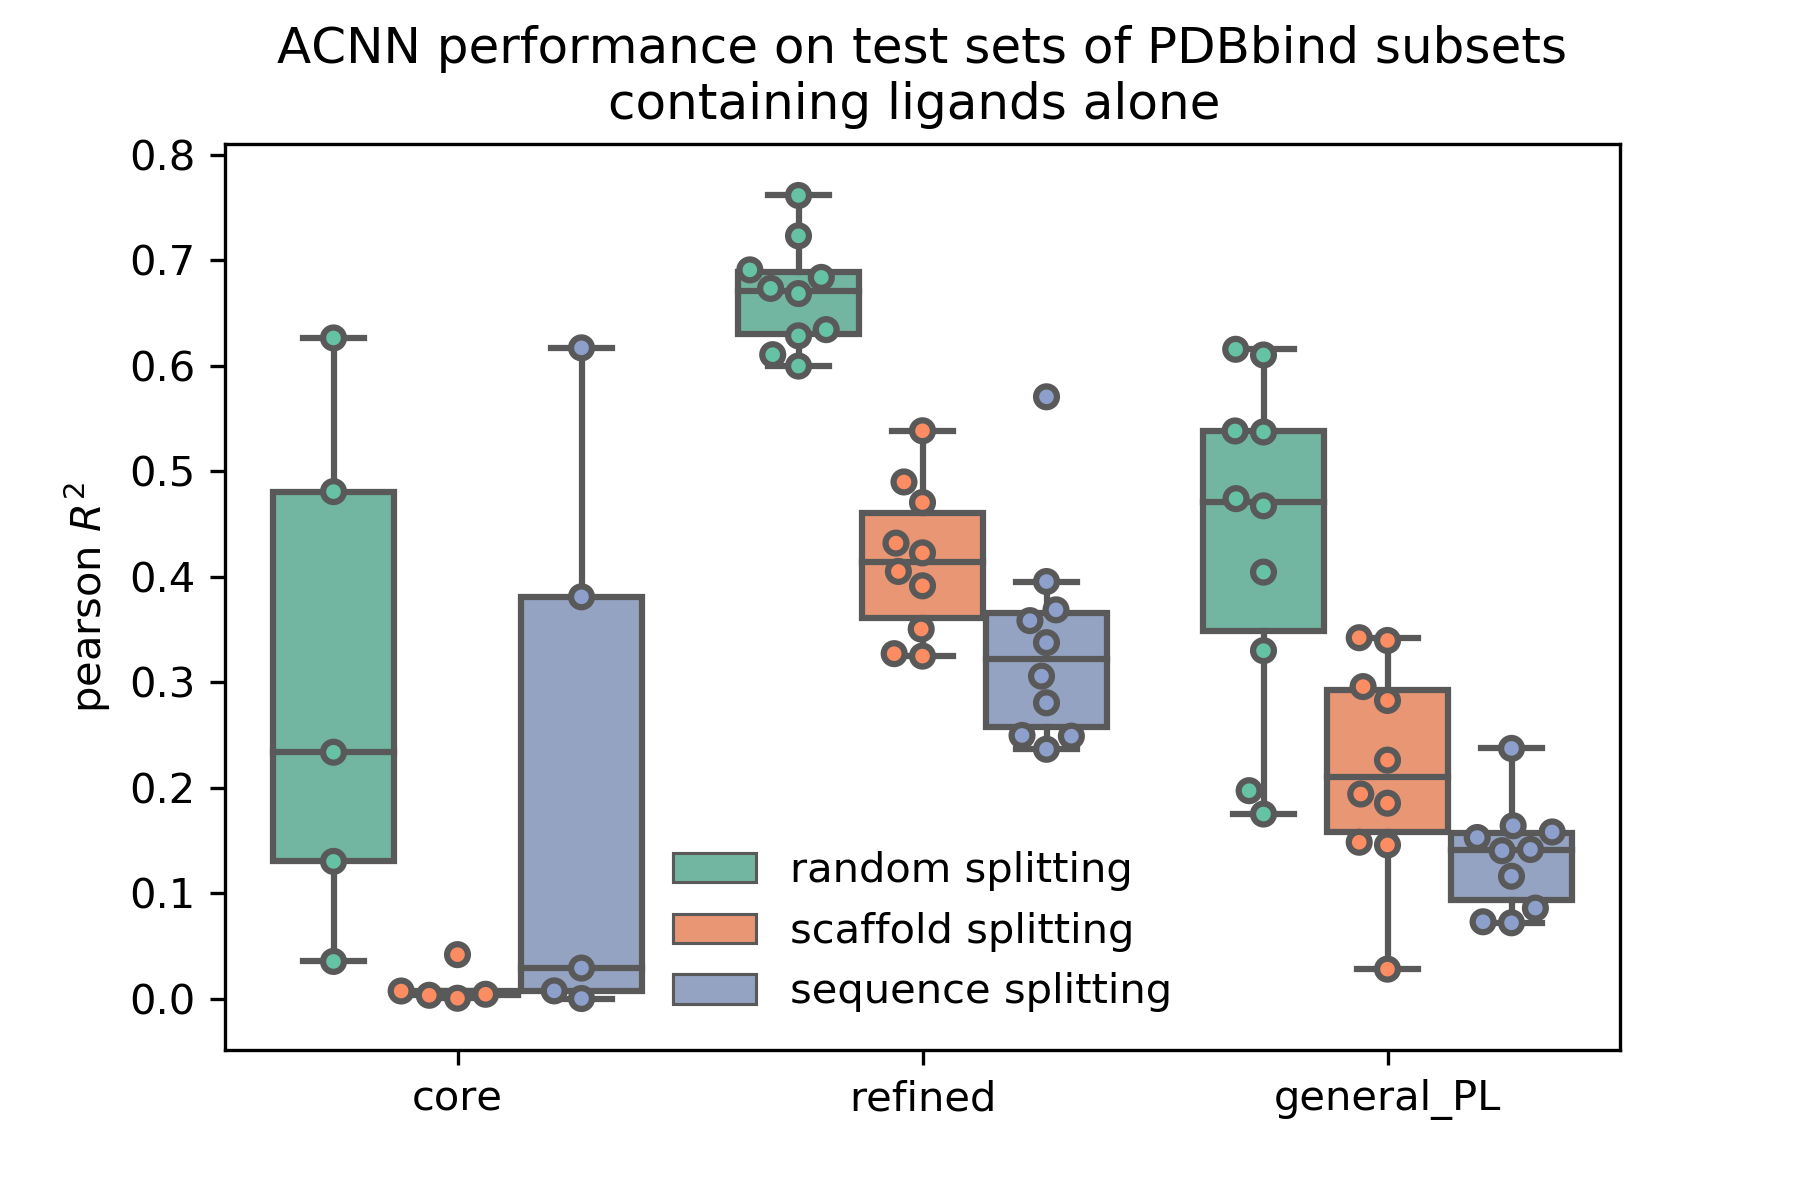
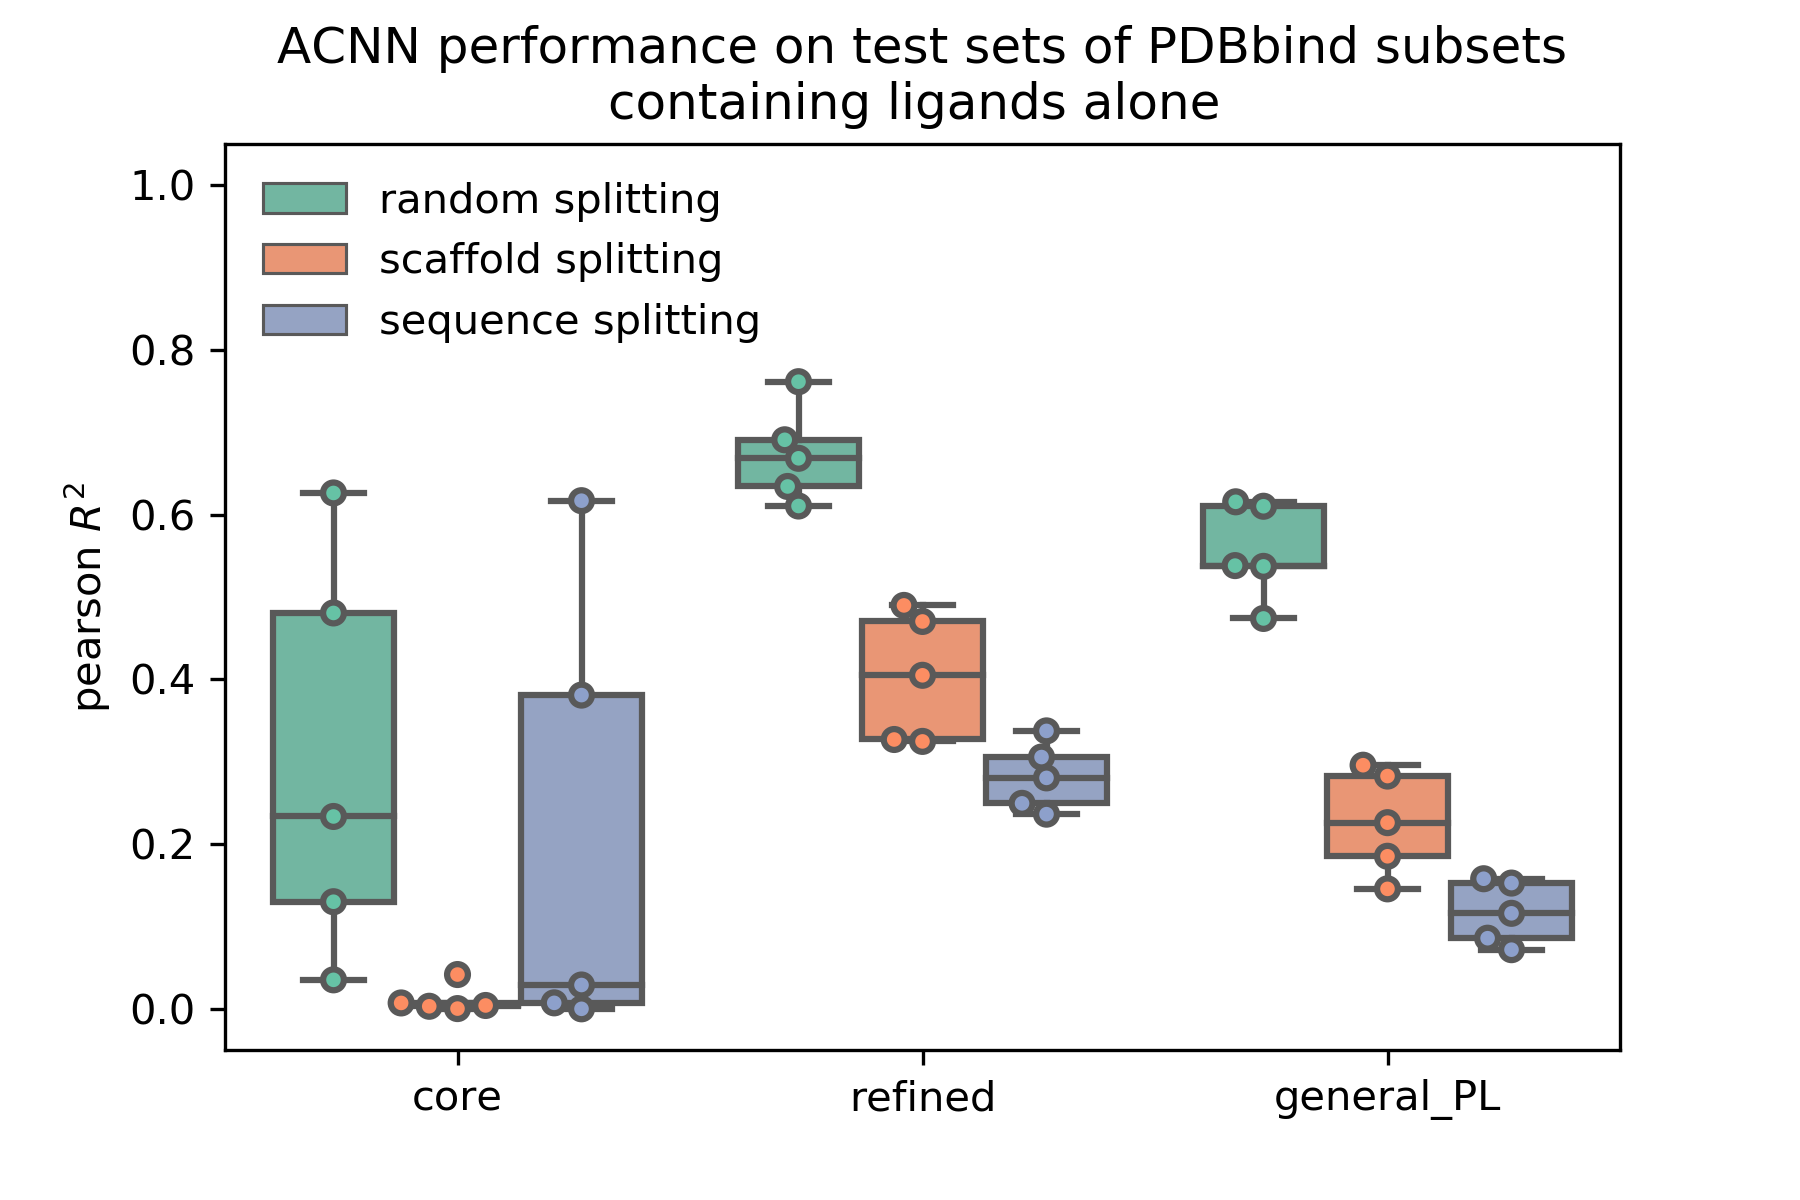
use pdbbind v2015 only, adjust legend and ylim

diff --git a/pdbbind/figures/box.py b/pdbbind/figures/box.py
@@ -43,15 +43,19 @@ cpn_names = ['binding complexes', 'ligands alone', 'proteins alone']
 subsets = ['core', 'refined', 'general_PL']
 splits = ['random', 'scaffold', 'seq']
 split_names = ['random splitting', 'scaffold splitting', 'sequence splitting']
-metrics = ['pearson_r2_score', 'mean_absolute_error']
-metric_names = ['pearson $R^2$', 'MAE']
+# metrics = ['pearson_r2_score', 'mean_absolute_error']
+# metric_names = ['pearson $R^2$', 'MAE']
 
+# MAE no meaning in here.
+metrics = ['pearson_r2_score']
+metric_names = ['pearson $R^2$']
 #%%
 for metric, metric_name in zip(metrics, metric_names):
     for split, split_name in zip(splits, split_names):
         d = df.loc[df['set'] == 'test']
         d = d.loc[d['split'] == split]
         d = d.loc[d['metric'] == metric]
+        d = d.loc[d['version'] == 2015]
         # print(d)
         # showfliers=False hide outliers
         fig, ax = plt.subplots()
@@ -96,7 +100,7 @@ for metric, metric_name in zip(metrics, metric_names):
         ax.set_title(
             f'ACNN performance on test sets of PDBbind subsets\nwith {split_name}'
         )
-        # ax.set_ylim([0.4,1])
+        ax.set_ylim([-0.05,1.05])
         fig.savefig(root / '.'.join((split, metric, 'png')), dpi=300)
 
 #%%
@@ -105,6 +109,7 @@ for metric, metric_name in zip(metrics, metric_names):
         d = df.loc[df['set'] == 'test']
         d = d.loc[d['component'] == component]
         d = d.loc[d['metric'] == metric]
+        d = d.loc[d['version'] == 2015]
         # print(d)
         # showfliers=False hide outliers
         fig, ax = plt.subplots()
@@ -142,12 +147,14 @@ for metric, metric_name in zip(metrics, metric_names):
         # l = ax.legend(handles[0:2], labels[0:2], bbox_to_anchor=(1.05, 1), loc=2, borderaxespad=0.)
         loc = 'best'
         if metric == 'pearson_r2_score':
-            loc = 'lower center'
+            loc = 'upper left'
         l = ax.legend(handles[0:3], split_names, frameon=False, loc=loc)
         ax.set_xlabel('')
         ax.set_ylabel(metric_name)
         ax.set_title(
             f'ACNN performance on test sets of PDBbind subsets\ncontaining {component_name} '
         )
-        # ax.set_ylim([0.4,1])
+        ax.set_ylim([-0.05,1.05])
         fig.savefig(root / '.'.join((component, metric, 'png')), dpi=300)
+
+#%%
